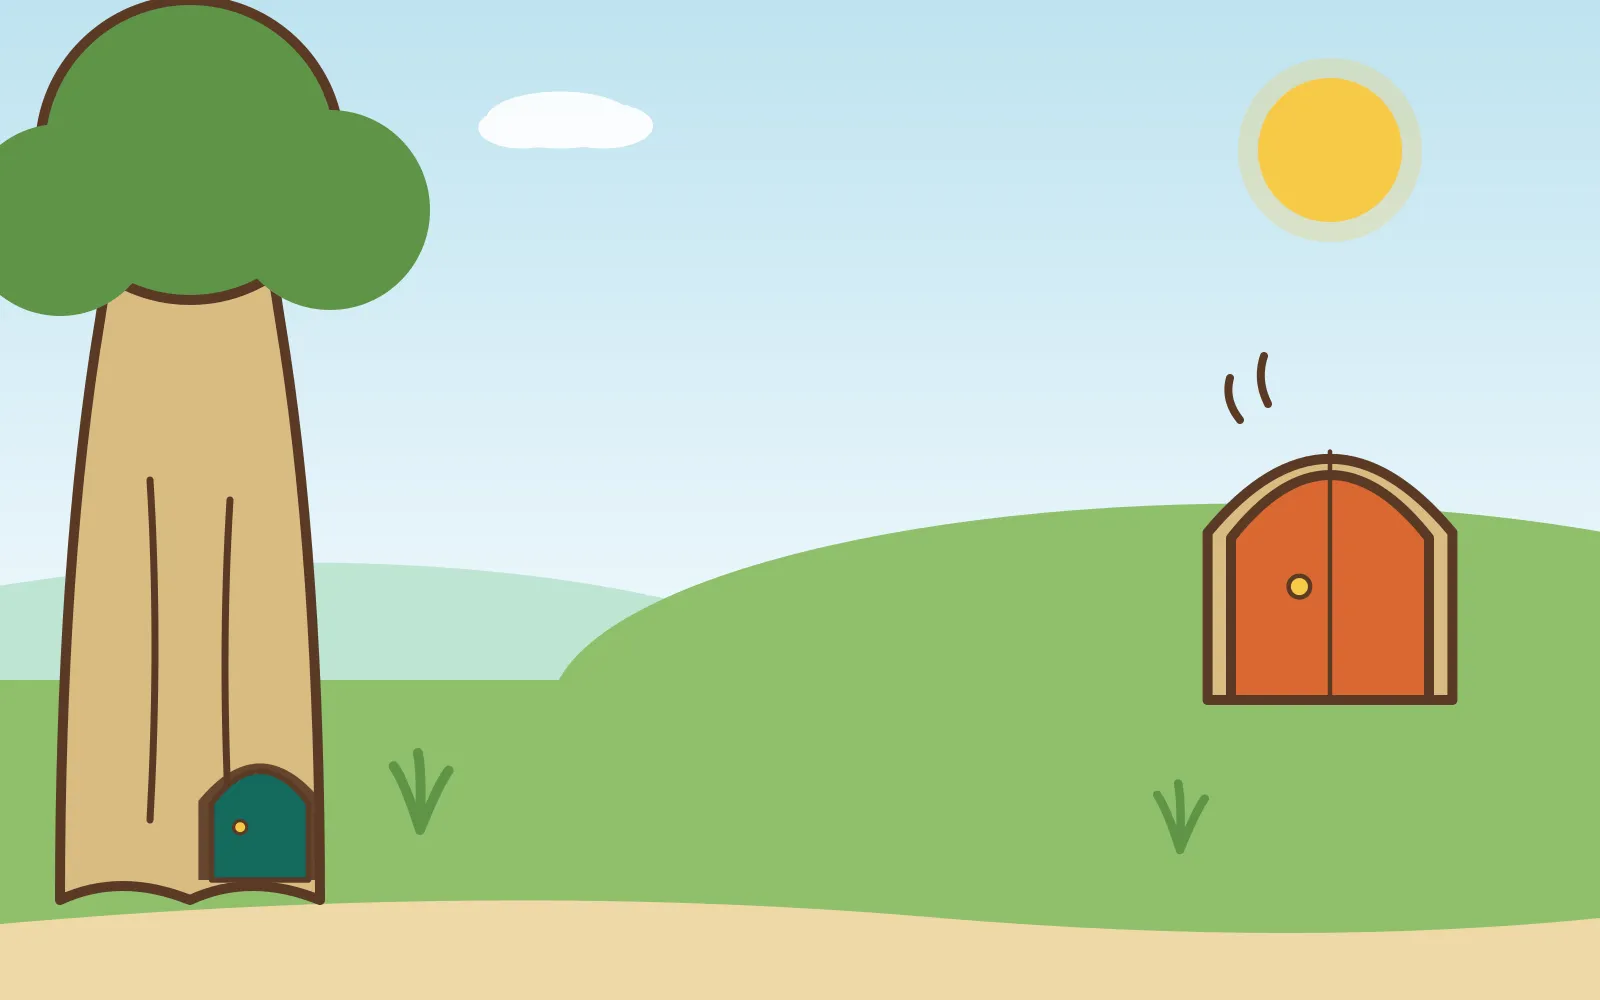
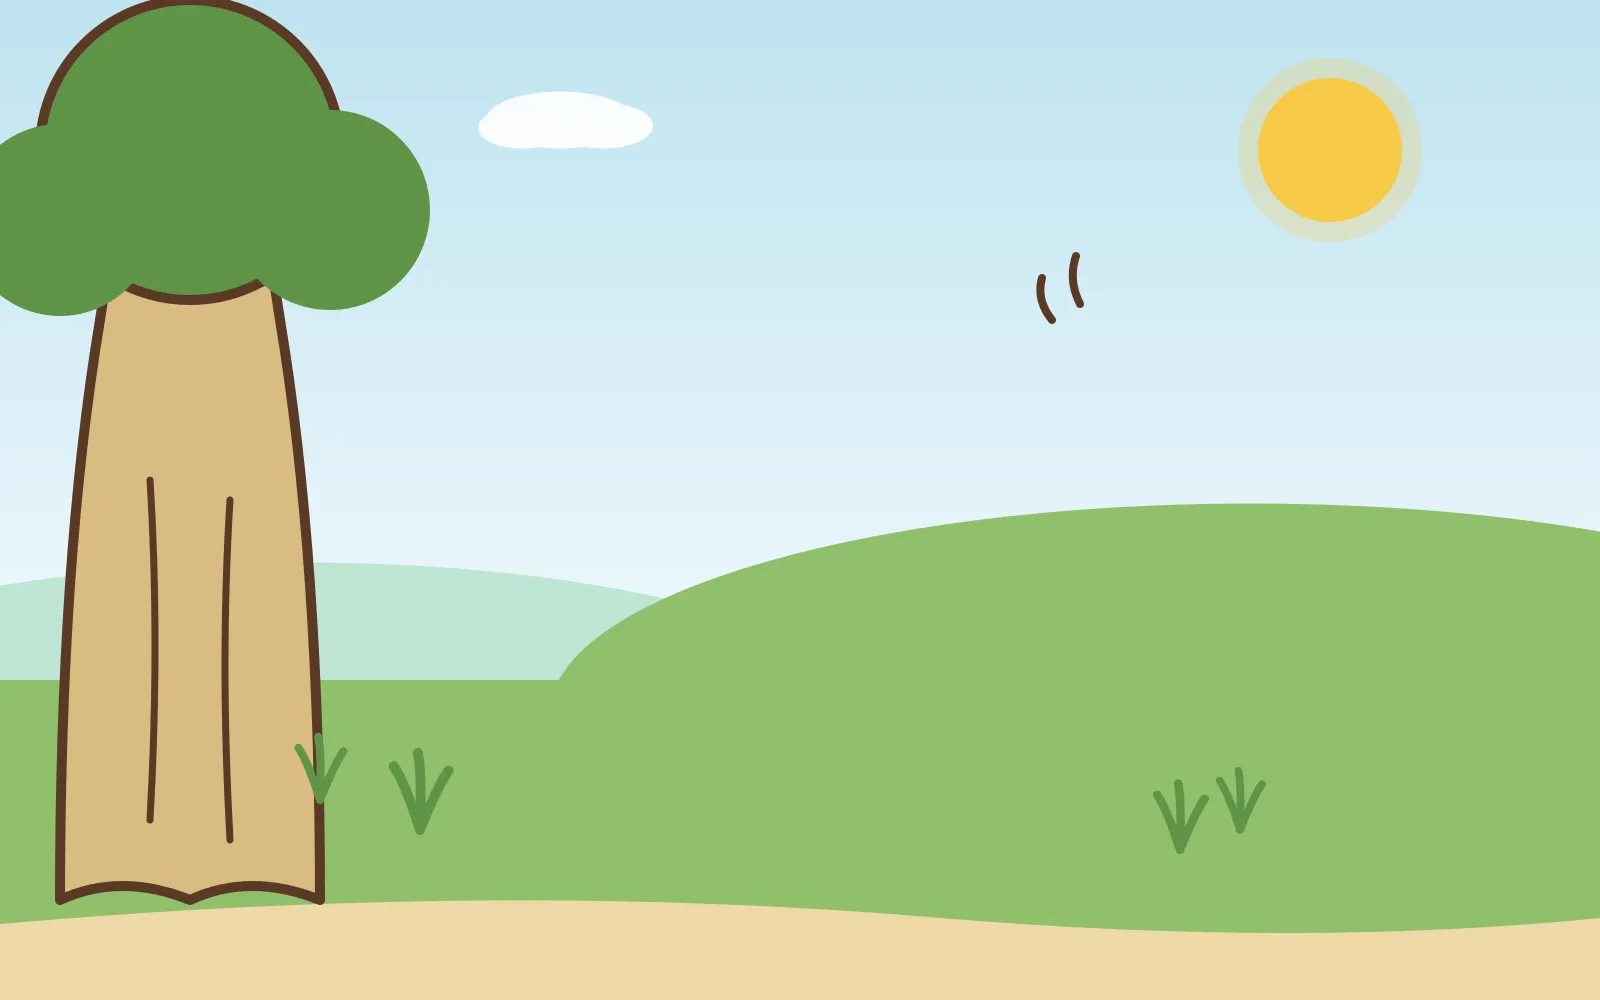
[FIX][STORYBOOK] v3 — the reader turns the pages; activities happen INSIDE the story world
Operator: 'no connection between the pages and the exercises… the starting
page disappears immediately.' Two fixes:
(1) READER-CONTROLLED PAGE TURNS — all auto-advance removed (story pages
were flipping ~600ms after narration; with sound off, page 1 vanished
instantly). A completed page now pulses the next arrow gently and WAITS for
the reader — a book never flips itself. QA turns pages via SB_PLAYER.next()
and requires the page-done pulse.
(2) DE-QUIZ — the child acts on the story's objects in the story's world:
sb-listen options are frameless scene objects (no white cards/borders — the
two doors standing in the forest ARE the tappable answers, with the BOOM
sound bubble); sb-listen-place drags the bare story object (white disc
removed, soft ground shadow, dimmer slot hints, invisible full-size hit
circle preserves the PK drag floor); both sb-choice-board pages replaced
with in-scene find-object taps (the small cookie resting by Hazel's basket;
the round shape lying on Bo's lane — no Check button). tiny-door s5
repainted (no duplicate decorative doors next to the tappable pair).
Playbook section 5: in-scene rule + choice-board banned in storybooks.
All three books: validate 0 err · gates 0 HARD 0 WARN · QA 0 fail under
the new reader-turn model.

diff --git a/scripts/storybook/qa-storybook.js b/scripts/storybook/qa-storybook.js
@@ -167,7 +167,8 @@ async function runPass(browser, port, width, reduced) {
       for (const s of small) warnings.push(`[${label}] page ${i + 1}: small tap target ${s}`);
     }
 
-    /* solve → advance (narrative-only pages auto-advance; nothing to solve) */
+    /* solve, then TURN THE PAGE like a reader (v3: the book never flips itself —
+       page-done pulses the next arrow; QA waits for the pulse and taps next) */
     if (interactive) {
       const solved = await page.evaluate('window.SB_PLAYER.solve()');
       if (!solved) {
@@ -175,11 +176,18 @@ async function runPass(browser, port, width, reduced) {
         break;
       }
     }
+    try {
+      await page.waitForFunction(`document.querySelector('.sb-nav-next.sb-pulse') !== null`, { timeout: 30000 });
+    } catch (e) {
+      failures.push(`[${label}] page ${i + 1}: never signalled page-done (no next-arrow pulse)`);
+      break;
+    }
+    await page.evaluate('window.SB_PLAYER.next()');
     if (i + 1 < pageCount) {
       try {
         await page.waitForFunction(`window.SB_PLAYER.pageIndex() >= ${i + 1}`, { timeout: 25000 });
       } catch (e) {
-        failures.push(`[${label}] page ${i + 1}: did not advance after success`);
+        failures.push(`[${label}] page ${i + 1}: did not advance after the page turn`);
         break;
       }
     }
@@ -229,12 +237,21 @@ async function runTouchPass(browser, port, mode) {
   const pageCount = await page.evaluate('window.SB_PLAYER.pageCount()');
   const skipper = setInterval(() => { page.evaluate('window.SB_PLAYER.skipNarration && window.SB_PLAYER.skipNarration()').catch(() => {}); }, 300);
 
+  /* v3 helper: wait for page-done (the next-arrow pulse), then turn the page */
+  async function turnPage(i) {
+    await page.waitForFunction(`document.querySelector('.sb-nav-next.sb-pulse') !== null`, { timeout: 30000 });
+    await page.evaluate('window.SB_PLAYER.next()');
+    if (i + 1 < pageCount) {
+      await page.waitForFunction(`window.SB_PLAYER.pageIndex() >= ${i + 1}`, { timeout: 25000 });
+    }
+  }
+
   for (let i = 0; i < pageCount; i++) {
     const interactive = HAS_INTERACTION.length ? HAS_INTERACTION[i] !== false : true;
     if (!interactive) {
-      /* narrative-only page: auto-advances after narration — just pass through */
-      try { await page.waitForFunction(`window.SB_PLAYER.pageIndex() >= ${Math.min(i + 1, pageCount - 1)}`, { timeout: 30000 }); }
-      catch (e) { failures.push(`[${label}] page ${i + 1}: narrative page did not auto-advance`); break; }
+      /* narrative-only page: read, then the reader turns it */
+      try { await turnPage(i); }
+      catch (e) { failures.push(`[${label}] page ${i + 1}: narrative page did not turn`); break; }
       continue;
     }
     try {
@@ -245,10 +262,10 @@ async function runTouchPass(browser, port, mode) {
 
     const gesture = await page.evaluate('window.SB_PLAYER.qaGesture ? window.SB_PLAYER.qaGesture() : null');
     if (!gesture || TOUCH_KINDS.indexOf(gesture.kind) < 0) {
-      /* non-touch page — advance so the traversal reaches the touch pages */
+      /* non-touch page — solve, then turn, so the traversal reaches the touch pages */
       const solved = await page.evaluate('window.SB_PLAYER.solve()');
       if (!solved) { failures.push(`[${label}] page ${i + 1}: could not advance a non-touch page`); break; }
-      if (i + 1 < pageCount) { try { await page.waitForFunction(`window.SB_PLAYER.pageIndex() >= ${i + 1}`, { timeout: 25000 }); } catch (e) { failures.push(`[${label}] page ${i + 1}: did not advance`); break; } }
+      try { await turnPage(i); } catch (e) { failures.push(`[${label}] page ${i + 1}: did not turn`); break; }
       continue;
     }
 
@@ -264,15 +281,17 @@ async function runTouchPass(browser, port, mode) {
 
     if (mode === 'pass') {
       try {
-        await page.waitForFunction(`window.SB_PLAYER.pageIndex() >= ${i + 1} || !!document.querySelector('.sb-complete')`, { timeout: 9000 });
+        /* success now signals via the page-done pulse (the reader turns the page) */
+        await page.waitForFunction(`document.querySelector('.sb-nav-next.sb-pulse') !== null`, { timeout: 9000 });
       } catch (e) { failures.push(`[${label}] page ${i + 1}: wobbly-but-correct trace did NOT complete (band too tight or gate too strict for a 3-5yo)`); break; }
+      try { await turnPage(i); } catch (e) { failures.push(`[${label}] page ${i + 1}: did not turn after the trace`); break; }
     } else {
       await new Promise(r => setTimeout(r, 1400));
-      const state = await page.evaluate('({ idx: window.SB_PLAYER.pageIndex(), done: !!document.querySelector(".sb-complete") })');
+      const state = await page.evaluate('({ idx: window.SB_PLAYER.pageIndex(), done: !!(document.querySelector(".sb-complete") || document.querySelector(".sb-nav-next.sb-pulse")) })');
       if (state.idx > i || state.done) { failures.push(`[${label}] page ${i + 1}: OFF-band trace FALSELY completed`); break; }
       const solved = await page.evaluate('window.SB_PLAYER.solve()');
       if (!solved) { failures.push(`[${label}] page ${i + 1}: DEAD STATE — not answerable after a bad trace`); break; }
-      if (i + 1 < pageCount) { try { await page.waitForFunction(`window.SB_PLAYER.pageIndex() >= ${i + 1}`, { timeout: 25000 }); } catch (e) { failures.push(`[${label}] page ${i + 1}: did not recover-advance after a bad trace`); break; } }
+      try { await turnPage(i); } catch (e) { failures.push(`[${label}] page ${i + 1}: did not recover-advance after a bad trace`); break; }
     }
   }
 

diff --git a/mini tools/storybook-player.js b/mini tools/storybook-player.js
@@ -112,6 +112,13 @@
       '.sb-nav svg{display:block;}',
       '.sb-nav-prev{left:10px;}',
       '.sb-nav-next{right:10px;}',
+      /* the page is read/done — the READER turns the page (the book never flips
+         itself; operator ruling 2026-07-10 v3). A gentle, no-pressure invitation. */
+      '@keyframes sb-nav-pulse{0%,100%{transform:translateY(-50%) scale(1);box-shadow:0 2px 8px rgba(0,0,0,.25);}',
+      '  50%{transform:translateY(-50%) scale(1.14);box-shadow:0 0 0 8px rgba(242,120,75,.35);}}',
+      '.sb-nav.sb-pulse{background:#F2784B;animation:sb-nav-pulse 1.6s ease-in-out infinite;}',
+      '@media (prefers-reduced-motion: reduce){.sb-nav.sb-pulse{animation:none;background:#F2784B;',
+      '  box-shadow:0 0 0 6px rgba(242,120,75,.35);}}',
       /* progress pips */
       '.sb-pips{position:absolute;top:14px;left:50%;transform:translateX(-50%);display:flex;gap:8px;pointer-events:none;z-index:70;}',
       '.sb-pip{width:12px;height:12px;border-radius:50%;background:rgba(251,243,228,.35);}',
@@ -890,6 +897,7 @@
       var gen = ++navGen;
       pageIndex = i;
       var page = story.pages[i];
+      if (navNext) navNext.classList.remove('sb-pulse');
       updatePips();
       track('page', { i: i, id: page.id });
 
@@ -990,8 +998,10 @@
           });
         }).then(function () {
           if (gen !== navGen) return;
-          if (i + 1 < story.pages.length) return runPage(i + 1);
-          return completeStory();
+          /* the page is done — the READER turns it (never the engine): the next
+             arrow invites gently; goTo(pages.length) reaches the completion screen */
+          if (navNext) navNext.classList.add('sb-pulse');
+          track('page-done', { i: i });
         });
       });
     }
@@ -1129,6 +1139,7 @@
     };
     if (debug) {
       api.solve = function () { return host ? host.autoSolve() : false; };
+      api.next = function () { goTo(pageIndex + 1); return true; };
       api.skipNarration = function () { global.SBAudio.stop(); };
       api.host = function () { return host; };
       api.stage = function () { return stage; };

diff --git a/mini tools/sb-mod-listen-place.js b/mini tools/sb-mod-listen-place.js
@@ -27,7 +27,7 @@
     var css = [
       '.sblp{position:relative;width:100%;height:100%;}',
       '.sblp-svg{display:block;width:100%;height:100%;touch-action:none;}',
-      '.sblp-slot{fill:rgba(20,107,94,.05);stroke:#5b5145;stroke-width:5;stroke-dasharray:14 12;}',
+      '.sblp-slot{fill:rgba(20,107,94,.04);stroke:rgba(91,81,69,.55);stroke-width:4;stroke-dasharray:12 14;}',
       '.sblp-slot.sblp-lit{stroke:#F2784B;}',
       '.sblp-slot.sblp-ans{stroke:#F2784B;animation:sblp-pulse 1.1s ease-in-out infinite;}',
       '@keyframes sblp-pulse{0%,100%{opacity:.55;}50%{opacity:1;}}',
@@ -130,8 +130,12 @@
           /* draggable object in a tray corner (bottom-left, away from the spots) */
           var hx = OS / 2 + 40, hy = ctx.zone.h - OS / 2 - 30;
           objG = svg('g', { class: 'sblp-obj' });
-          objG.appendChild(svg('circle', { cx: 0, cy: 0, r: OS / 2, fill: '#fff', 'fill-opacity': '.85', stroke: '#5b5145', 'stroke-width': 3 }));
-          try { objG.appendChild(imageAt(ctx.assets.url(ctx.taskData.object.image), 0, 0, OS * 0.82)); } catch (e) {}
+          /* v3 (storybook de-quiz): the dragged thing IS the story's object — no white
+             disc backing; a soft ground shadow keeps it liftable-looking. The full
+             OS-sized transparent hit circle preserves the PK drag-handle floor. */
+          objG.appendChild(svg('circle', { cx: 0, cy: 0, r: OS / 2, fill: '#fff', 'fill-opacity': '0.001' }));
+          objG.appendChild(svg('ellipse', { cx: 0, cy: OS * 0.4, rx: OS * 0.36, ry: OS * 0.09, fill: '#1c1a17', opacity: '0.18' }));
+          try { objG.appendChild(imageAt(ctx.assets.url(ctx.taskData.object.image), 0, 0, OS * 0.95)); } catch (e) {}
           sv.appendChild(objG);
           obj = { cx: hx, cy: hy, home: { x: hx, y: hy }, grab: { dx: 0, dy: 0 } };
           objG.setAttribute('transform', 'translate(' + hx + ',' + hy + ')');

diff --git a/mini tools/sb-mod-listen.js b/mini tools/sb-mod-listen.js
@@ -30,10 +30,13 @@
       '  border-radius:12px;padding:4px 18px;display:none;}',
       '.sbls-word.sbls-show{display:block;}',
       '.sbls-row{display:flex;gap:4%;justify-content:center;width:100%;}',
-      '.sbls-opt{flex:0 1 26%;max-width:26%;aspect-ratio:1;border-radius:16px;border:4px solid #146B5E;',
-      '  background:#fff;cursor:pointer;display:flex;align-items:center;justify-content:center;padding:3%;',
-      '  -webkit-tap-highlight-color:transparent;touch-action:manipulation;box-shadow:0 3px 8px rgba(0,0,0,.18);}',
-      '.sbls-opt img{max-width:100%;max-height:100%;object-fit:contain;pointer-events:none;}',
+      /* v3 (storybook de-quiz): the options ARE the story's objects sitting in the
+         scene — no card, no border, no white backing (wobble + dashed hint remain) */
+      '.sbls-opt{flex:0 1 30%;max-width:30%;aspect-ratio:1;border-radius:16px;border:none;',
+      '  background:transparent;cursor:pointer;display:flex;align-items:center;justify-content:center;padding:0;',
+      '  -webkit-tap-highlight-color:transparent;touch-action:manipulation;}',
+      '.sbls-opt img{max-width:100%;max-height:100%;object-fit:contain;pointer-events:none;',
+      '  filter:drop-shadow(0 6px 8px rgba(0,0,0,.25));}',
       '@keyframes sbls-shake{0%,100%{transform:translateX(0);}25%{transform:translateX(-5px);}75%{transform:translateX(5px);}}',
       '.sbls-opt.sbls-no{animation:sbls-shake .3s ease 2;}',
       '@media (prefers-reduced-motion: reduce){.sbls-opt.sbls-no{animation:none;}}',

diff --git a/scripts/storybook/art/the-tiny-door-art.js b/scripts/storybook/art/the-tiny-door-art.js
@@ -191,10 +191,10 @@ function sceneSVG(n) {
     parts.push(bigDoorAt(1180, 560, 0.72, false));
     parts.push(pawPrintAt(560, 760, 0.5), pawPrintAt(700, 800, 1.1), pawPrintAt(980, 770, 0.45));
   } else if (n === 5) {
-    /* the knock: both doors prominent at the edges (listen cards overlay center) */
-    parts.push(tinyDoorAt(260, 880, 1.1, false));
-    parts.push(bigDoorAt(1330, 700, 0.9, false));
-    parts.push(S.stroke('M 1240 420 Q 1224 400 1230 378 M 1268 404 Q 1256 380 1264 356', 'outline', 8));
+    /* the knock: calm forest — the module's two frameless door options ARE the doors
+       (v3 de-quiz: no duplicate painted pair competing with the tappable ones) */
+    parts.push(S.grass(320, 800, 0.9, 'leafDeep'), S.grass(1240, 830, 0.85, 'leafDeep'));
+    parts.push(S.stroke('M 1052 320 Q 1036 300 1042 278 M 1080 304 Q 1068 280 1076 256', 'outline', 8));
   } else if (n === 6) {
     /* delivery 1: the BIG door grounded on the hillside at the correct slot (abs 1120,440);
        the tiny door at the decoy slot (abs 860,640) */

diff --git a/docs/storybook/authoring-playbook.md b/docs/storybook/authoring-playbook.md
@@ -146,6 +146,15 @@ Same teaching point, gently rising load across pages. Concrete recipes:
 
 ## 5. Mechanic-selection guide (teaching-point → module)
 
+> **Storybook rule (v3, operator ruling): the child acts on the STORY'S OBJECTS in the
+> STORY'S WORLD.** Interactions must render in-scene — `sb-find-object` (tap the real
+> thing; a decoy wobbles gently), `sb-listen` (frameless scene-object options + the
+> sound bubble), `sb-listen-place` (drag the bare story object, soft shadow, dim slot
+> hints), `sb-trace` / `sb-connect-dots` / `sb-count-tap` (already act on the scene).
+> Card-styled modules (`sb-choice-board` with white tiles + a Check button) are NOT
+> usable in storybooks — quiz chrome breaks the story world. And the reader ALWAYS
+> turns the page (the pulsing next arrow invites; the engine never auto-advances).
+
 Pick the module whose *thinking type* matches the teaching point. When two fit, prefer the one needing
 **zero new art** (native modules + image library) over a bespoke build.
 
